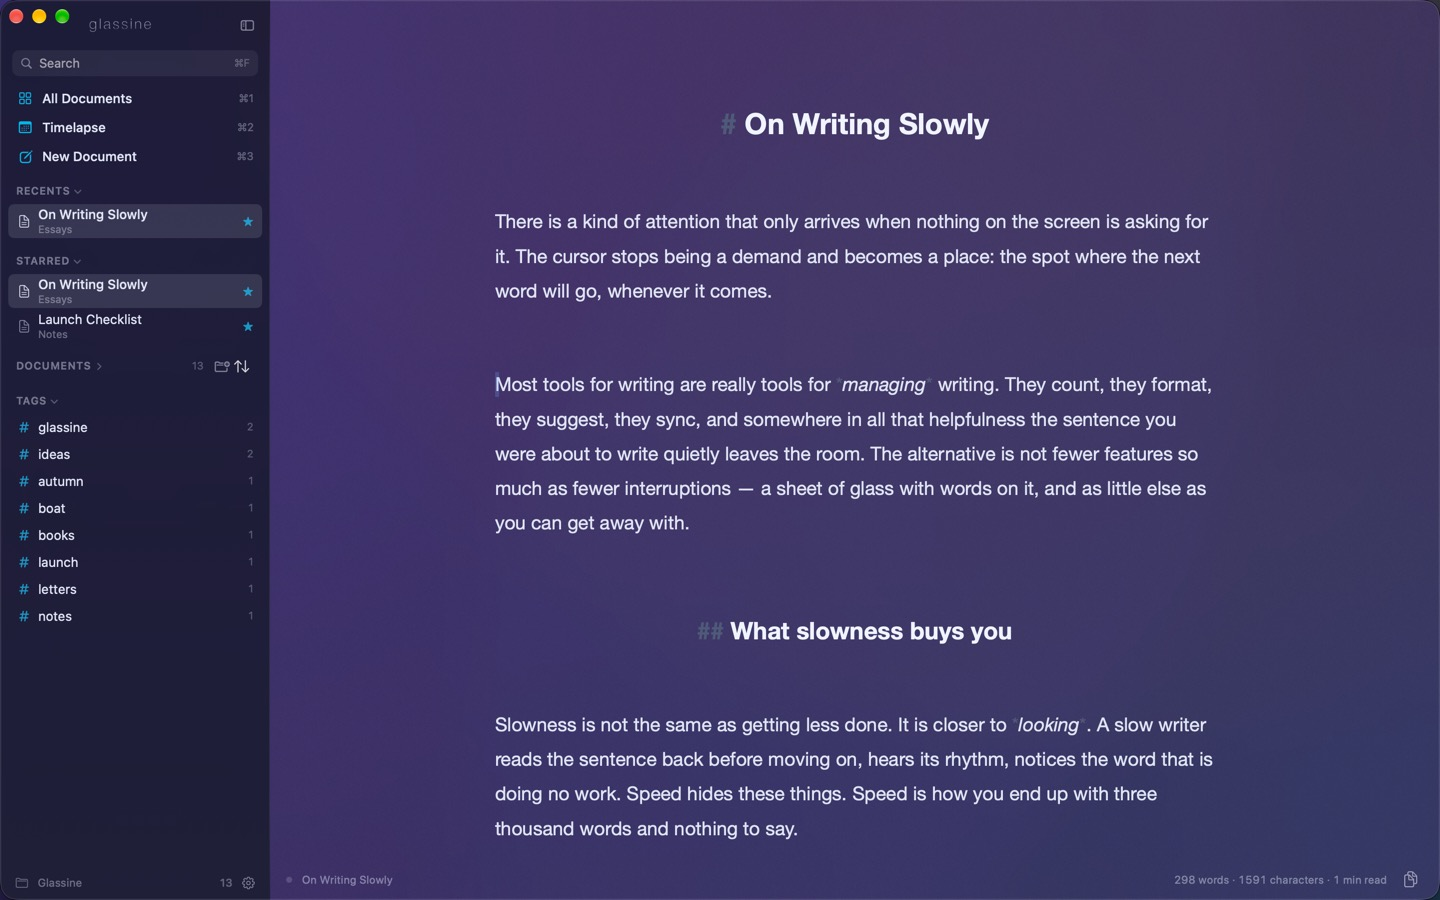
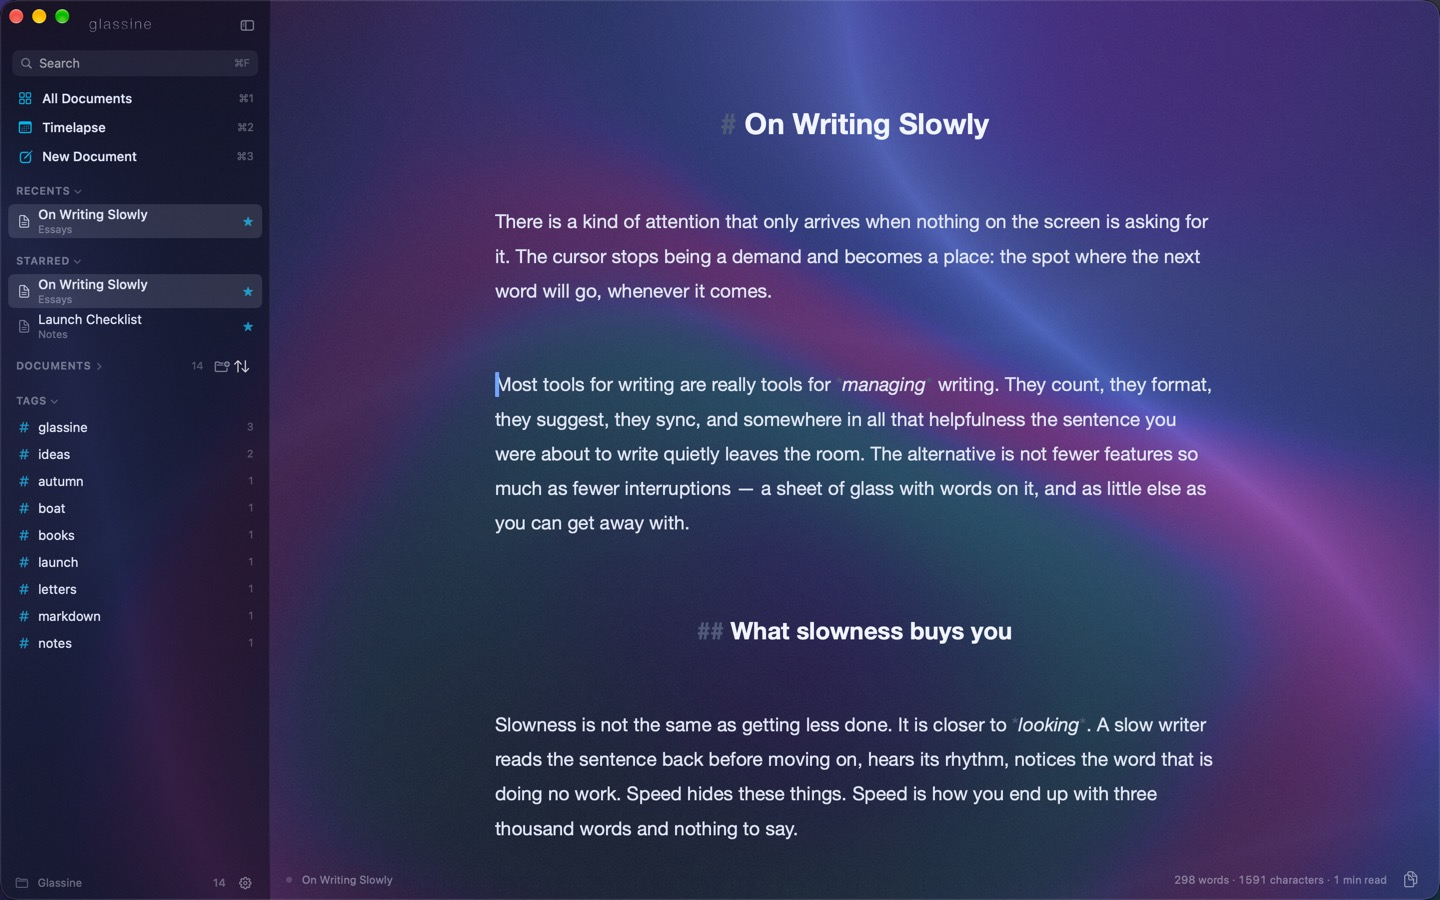
glassine.ink: the App Store, sync, the new Settings, eleven fresh pictures — and a page that keeps itself current
The landing page as of 0.2.11: the store first among the ways to get it,
sync with GitHub across the bottom of the grid, Settings and Behind the
glass as cards of their own, caret tricks, Open With and the command bar
among the rest, and a "What's new" section. Every picture retaken from
the direct build in the showcase library, three of them new (Settings →
Caret, Behind the glass, Library with sync connected), the hero and the
gallery on the Aurora backdrop, Timelapse on Moss; the same pictures in
the README and the manual, which show the three new ones too.

Keeping it current: site/whats-new.md holds three to five lines a
version; site/update.sh puts the top block and the version from
Info.plist into index.html between markers (--check says whether the
page is behind); release.sh runs it on every release. site/screenshots.sh
retakes the eleven pictures; RELEASING.md says when. The screenshot
scripts count caret offsets with perl now rather than swift, so they do
not wait on Xcode's licence.

Claude-Session: https://claude.ai/code/session_01E5SPXFRmmR5PWeY6W3AsFB

diff --git a/site/index.html b/site/index.html
@@ -4,7 +4,7 @@
 <meta charset="utf-8">
 <meta name="viewport" content="width=device-width, initial-scale=1">
 <title>Glassine — a quiet Markdown writing app for macOS</title>
-<meta name="description" content="Glassine is a Markdown writing app for the Mac: a sheet of translucent glass, a caret that glides, plain files in iCloud Drive, saved as you type. Free and open source.">
+<meta name="description" content="Glassine is a Markdown writing app for the Mac: a sheet of translucent glass, a caret that glides, plain files in iCloud Drive or a private GitHub repository, saved as you type. Free and open source, on the Mac App Store.">
 <meta name="theme-color" content="#1a1430">
 <meta name="color-scheme" content="dark">
 <link rel="icon" href="/favicon.png" type="image/png">
@@ -110,6 +110,10 @@
   .card img { display: block; width: 100%; height: auto; }
   .card figcaption { padding: 12px 16px 14px; font-size: 14px; color: var(--muted); }
   .card figcaption b { color: var(--heading); font-weight: 600; }
+  .card.wide { grid-column: 1 / -1; display: grid; grid-template-columns: 3fr 2fr; align-items: center; }
+  .card.wide figcaption { padding: 22px 28px; font-size: 15px; line-height: 1.5; }
+  .card.wide figcaption p { margin: 0 0 10px; }
+  .card.wide figcaption p:last-child { margin: 0; }
 
   .list { display: grid; grid-template-columns: repeat(2, 1fr); gap: 14px 40px; margin: 0; padding: 0; list-style: none; }
   .list li { padding-left: 18px; position: relative; color: var(--muted); font-size: 16px; }
@@ -136,7 +140,7 @@
   footer em { color: var(--dim); }
 
   @media (max-width: 720px) {
-    .grid, .list, .routes { grid-template-columns: 1fr; }
+    .grid, .list, .routes, .card.wide { grid-template-columns: 1fr; }
     header { height: 64px; }
     nav { gap: 18px; }
     .hero { padding-top: 40px; }
@@ -159,6 +163,7 @@
     </a>
     <nav>
       <a href="https://docs.glassine.ink">Manual</a>
+      <a href="#new">What's new</a>
       <a href="#get">Get it</a>
       <a href="https://github.com/a-libre/glassine">Source</a>
     </nav>
@@ -166,12 +171,13 @@
 
   <div class="hero">
     <h1>A quiet place to write.</h1>
-    <p class="lead">Glassine is a Markdown writing app for the Mac. A window of translucent glass, a caret that glides instead of jumps, and files that are plain text in iCloud Drive — saved as you type, yours to keep.</p>
+    <p class="lead">Glassine is a Markdown writing app for the Mac. A window of translucent glass, a caret that glides instead of jumps, and files that are plain text — in iCloud Drive, or a private GitHub repository — saved as you type, yours to keep.</p>
     <div class="cta">
-      <a class="btn primary" href="https://github.com/a-libre/glassine/releases/latest/download/Glassine.dmg">Download for Mac</a>
+      <a class="btn primary" href="https://apps.apple.com/us/app/glassine-writer/id6808032066?mt=12">Get it on the Mac App Store</a>
+      <a class="btn" href="https://github.com/a-libre/glassine/releases/latest/download/Glassine.dmg">Download the .dmg</a>
       <a class="btn" href="https://docs.glassine.ink">Read the manual</a>
     </div>
-    <div class="status"><span class="dot"></span><span>On the <a href="https://apps.apple.com/us/app/glassine-writer/id6808032066?mt=12">Mac App Store</a> as <b>Glassine Writer</b>, or version 0.2.11 as a notarized <code>.dmg</code> that updates itself. macOS 14 or later.</span></div>
+    <div class="status"><span class="dot"></span><span>Version <!-- version -->0.2.11<!-- /version --> — free, open source, macOS 14 or later. The store copy is called <b>Glassine Writer</b>; the <code>.dmg</code> updates itself.</span></div>
   </div>
 
   <figure class="shot">
@@ -206,24 +212,52 @@
         <img src="/slash.jpg" alt="The slash menu open under the caret" width="720" height="450" loading="lazy">
         <figcaption><b>Slash commands.</b> <span class="kbd">/</span> at the start of a line: headings, lists, tasks, a quote, a code block, a rule, a link, a chip, today's date. Keep typing to filter.</figcaption>
       </figure>
+      <figure class="card">
+        <img src="/caret.jpg" alt="Settings, the Caret section, with a caret gliding along a line of specimen text" width="720" height="450" loading="lazy">
+        <figcaption><b>Settings that show you.</b> A card over the page, so every change is visible behind it. The Caret section keeps a caret gliding and blinking as it is set; Type shows a piece of page in the face you chose. A search box finds any setting by name; <span class="kbd">⌘Z</span> takes a change back.</figcaption>
+      </figure>
+      <figure class="card">
+        <img src="/backdrops.jpg" alt="Settings, Behind the glass: tiles of backdrops, Aurora chosen, folds of colour showing through the card" width="720" height="450" loading="lazy">
+        <figcaption><b>Behind the glass.</b> No wallpaper worth looking through? Nine backdrops put deep, slowly moving folds of colour inside the window — or duplicate one and pick your own three to five colours. Drift and frost to taste.</figcaption>
+      </figure>
+      <figure class="card wide">
+        <img src="/sync.jpg" alt="Settings, Library: Sync with GitHub connected to a private repository, up to date" width="720" height="450" loading="lazy">
+        <figcaption>
+          <p><b>Sync with GitHub.</b> iCloud Drive is the simple way to have the same documents on every Mac. For a Mac you'd rather not sign into iCloud on — a work laptop, say — Glassine can keep the library in a private GitHub repository of yours instead: a token for that one repository, and nothing else about your accounts touches the machine.</p>
+          <p>Every round of changes is a commit, so the repository holds every version of every note. No git to install, no background process. <a href="https://docs.glassine.ink/library/sync">How it works.</a></p>
+        </figcaption>
+      </figure>
     </div>
   </section>
 
   <section>
     <h2>And the rest</h2>
     <ul class="list">
-      <li><b>Glass.</b> The window is a blur of whatever is behind it, tinted by the theme. Nine built in, dark by default; make your own with live preview.</li>
-      <li><b>Or your own sky.</b> No wallpaper worth looking through? A backdrop puts deep, slowly moving folds of colour inside the window — the theme's colours or one of six palettes, drifting, frosted to taste.</li>
-      <li><b>A caret that glides.</b> Speed, blink, width and shape — eight of them — are yours to set. Off under Reduce Motion.</li>
-      <li><b>A library, not a file picker.</b> Plain <code>.md</code> files and folders in iCloud Drive, named from the first line as you write.</li>
+      <li><b>Glass.</b> The window is a blur of whatever is behind it, tinted by the theme. Nine built in, dark by default; make your own with live preview, and import or export them as files.</li>
+      <li><b>A caret that glides.</b> Speed, blink, width and shape — eight of them — are yours to set. Left alone a few seconds it does a trick: a hop, a bounce, a flip. Off under Reduce Motion.</li>
+      <li><b>A library, not a file picker.</b> Plain <code>.md</code> files and folders in iCloud Drive, or any folder you point it at, named from the first line as you write.</li>
+      <li><b>Open With.</b> Finder can open <code>.md</code> and <code>.txt</code> files in Glassine; a file from outside the library is edited where it is and never copied in.</li>
       <li><b>Autosave that never asks.</b> Half a second after you stop typing, and every few seconds while you keep going.</li>
       <li><b>Tasks that behave.</b> Click a box; the strike sweeps across; a moment later the item settles below the unfinished ones.</li>
       <li><b>Dates as you type.</b> <code>@today</code> becomes the date, drawn as a capsule, kept as text.</li>
       <li><b>Markdown, lightly styled — or hidden.</b> The marks step back, or leave the page altogether; the file is the same plain text either way.</li>
       <li><b>Chips.</b> <span class="kbd">⌘⇧H</span> puts a word in a capsule, like a date's. In the file it is <code>==this==</code>, which other editors read too.</li>
       <li><b>Float on top.</b> <span class="kbd">⌘.</span> keeps the window over everything else, Stage Manager included.</li>
+      <li><b>One key away.</b> <span class="kbd">⌘K</span> is a command bar for everything; <span class="kbd">⌘1</span> <span class="kbd">⌘2</span> <span class="kbd">⌘3</span> are All Documents, Timelapse and a new page; <span class="kbd">⌘/</span> shows every shortcut on one sheet.</li>
       <li><b>Nothing sent anywhere.</b> No accounts, no analytics, no servers. The <a href="https://docs.glassine.ink/about/privacy">privacy page</a> is one paragraph.</li>
     </ul>
+  </section>
+
+  <section id="new">
+    <h2>What's new</h2>
+    <p class="intro">Version <!-- whats-new-head -->0.2.11 — September 13, 2026<!-- /whats-new-head -->. The <a href="https://docs.glassine.ink/about/changelog">changelog</a> has every line, by day.</p>
+    <ul class="list"><!-- whats-new -->
+      <li><b>Sync with GitHub.</b> The library kept in a private repository of yours, for a second Mac you'd rather not sign into iCloud on — and a history of every note, every version. No git, no daemon; connect with a token in Settings → Library. <a href="https://docs.glassine.ink/library/sync">How it works.</a></li>
+      <li><b>Settings, remade.</b> A rail of sections, a search box that finds any setting by name, <span class="kbd">⌘Z</span> to take a change back, and the Type and Caret sections showing what they do before you look behind the card.</li>
+      <li><b>Caret tricks.</b> Left alone for a few seconds, the caret hops, bounces, flips, wiggles, stretches or leans — every shape performs. Off in a switch, and under Reduce Motion.</li>
+      <li><b>Backdrops of your own.</b> Nine sets of colour behind the glass now, each running through more than one colour; duplicate any and make it yours, with a paper grain of its own.</li>
+      <li><b>On the Mac App Store</b>, as Glassine Writer. The direct download stays, and updates itself.</li>
+    <!-- /whats-new --></ul>
   </section>
 
   <section id="get">

diff --git a/site/whats-new.md b/site/whats-new.md
@@ -1,0 +1,21 @@
+# What's new, for the landing page
+
+The top block below is what glassine.ink shows under "What's new" — `site/update.sh`
+puts it there (and the version from Info.plist), and `release.sh` runs that on
+every release. Newest version first. Three to five lines a version, each
+`- **Title.** One or two plain sentences.` — links as `[text](url)`, keys as
+`[[⌘K]]`. Older blocks stay as a record; only the top one is shown.
+
+## 0.2.11 — September 13, 2026
+
+- **Sync with GitHub.** The library kept in a private repository of yours, for a second Mac you'd rather not sign into iCloud on — and a history of every note, every version. No git, no daemon; connect with a token in Settings → Library. [How it works.](https://docs.glassine.ink/library/sync)
+- **Settings, remade.** A rail of sections, a search box that finds any setting by name, [[⌘Z]] to take a change back, and the Type and Caret sections showing what they do before you look behind the card.
+- **Caret tricks.** Left alone for a few seconds, the caret hops, bounces, flips, wiggles, stretches or leans — every shape performs. Off in a switch, and under Reduce Motion.
+- **Backdrops of your own.** Nine sets of colour behind the glass now, each running through more than one colour; duplicate any and make it yours, with a paper grain of its own.
+- **On the Mac App Store**, as Glassine Writer. The direct download stays, and updates itself.
+
+## 0.2.8 — September 12, 2026
+
+- **Formatting as you go.** A bar over any selection; a slash menu at the start of a line; chips; hide the Markdown syntax except in the sentence being written.
+- **Open With.** Finder can open `.md` and `.txt` files in Glassine; a file from outside the library is edited where it is.
+- **Backdrops.** Folds of colour inside the window instead of the desktop, drifting, frosted to taste.

diff --git a/RELEASING.md b/RELEASING.md
@@ -41,6 +41,8 @@ How a signed, notarized build gets from this folder to a download link. Everythi
 ./release.sh 0.2.0
 ```
 
+Before it: the changelog (`docs/site/about/changelog.mdx`) and the top block of `site/whats-new.md` — three to five lines for the version, which the landing page shows under *What's new*. `release.sh` runs `site/update.sh`, which puts those lines and the version into `site/index.html`, so the page is never behind the download it offers; `site/update.sh --check` says whether it is. When the app's look changed, `site/screenshots.sh` retakes the eleven pictures the landing page, the README and the manual share (from the direct build, in the showcase library, about two minutes with the window in front) — do that in the same commit as the change, so the pictures never show an older app than the words describe.
+
 That does, in order: refuses to run with uncommitted changes; writes the version into `Info.plist` and bumps the build number; builds; signs Sparkle's pieces and then the app with hardened runtime and a secure timestamp; submits the app to Apple's notary service and waits (usually 2–10 minutes); staples the ticket to the app; builds `dist/Glassine-0.2.0.dmg` with an Applications shortcut; signs, notarizes and staples the disk image too; commits, tags `v0.2.0`, pushes; creates the GitHub Release with the `.dmg` attached twice — under its versioned name and as `Glassine.dmg`, whose address `releases/latest/download/Glassine.dmg` never changes and is what the site links to; and finally writes `site/appcast.xml`, the feed installed copies read, signed with the update key, and pushes it. Vercel publishes it at glassine.ink/appcast.xml within a minute.
 
 `./release.sh 0.2.0 --dry-run` does everything except push and publish, so you can open the `.dmg` and try it first.

diff --git a/README.md b/README.md
@@ -25,9 +25,13 @@ Native Swift (SwiftUI + AppKit), no dependencies, no Xcode project — a Swift p
     <td><img src="docs/screenshots/writing.jpg" alt="The formatting bar over a selection, chips in capsules and a rule, with the Markdown syntax hidden"></td>
     <td><img src="docs/screenshots/slash.jpg" alt="The slash menu open under the caret"></td>
   </tr>
+  <tr>
+    <td><img src="docs/screenshots/caret.jpg" alt="Settings, the Caret section, a caret gliding along a line of specimen text"></td>
+    <td><img src="docs/screenshots/sync.jpg" alt="Settings, Library: Sync with GitHub connected and up to date"></td>
+  </tr>
 </table>
 
-Focus mode and Review; All Documents and Timelapse; the formatting bar with the syntax hidden, and the slash menu.
+Focus mode and Review; All Documents and Timelapse; the formatting bar with the syntax hidden, and the slash menu; Settings, and sync with GitHub.
 
 There's a [45-second walkthrough](docs/demo.mp4) of the editor, Review mode and the All Documents mosaic as well, and the full manual is at [docs.glassine.ink](https://docs.glassine.ink).
 
